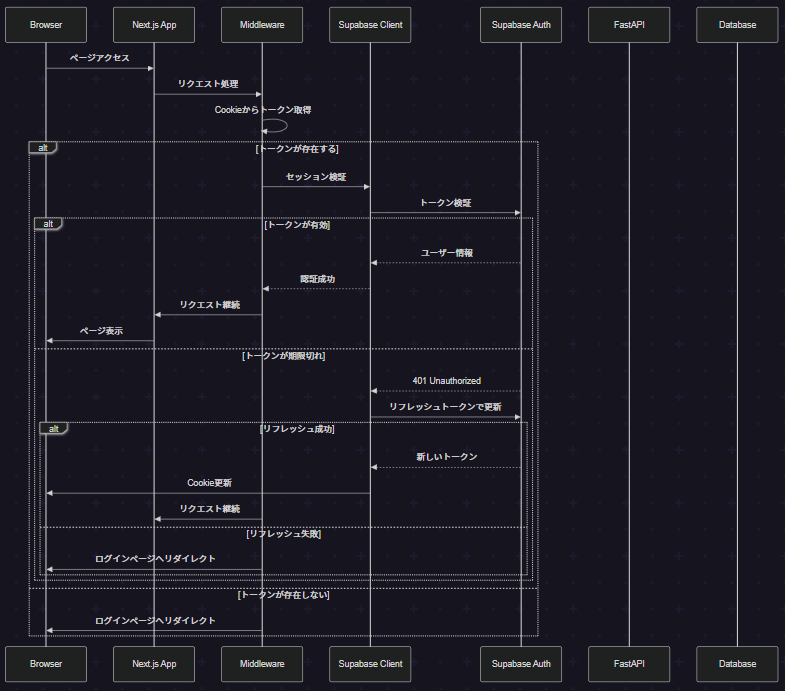
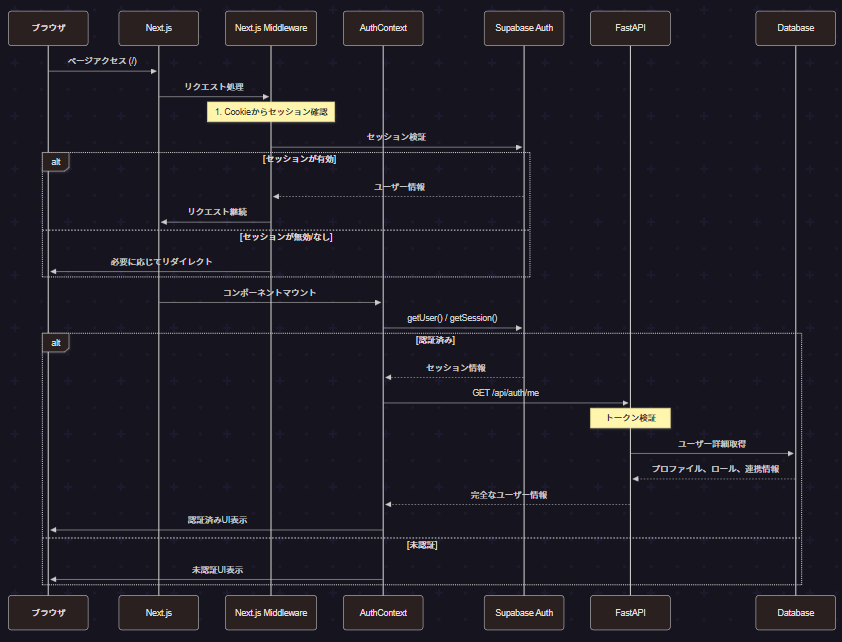
Doc: 認証設計のドキュメント追加

diff --git a/documents/機能設計/認証設計.md b/documents/機能設計/認証設計.md
@@ -3,7 +3,16 @@
 ## アーキテクチャ概要
 
 ```
-
+┌─────────────┐     ┌──────────────┐     ┌─────────────┐     ┌─────────────┐
+│   Next.js   │────▶│   FastAPI    │────▶│  Supabase   │     │   Stripe    │
+│  (Frontend) │     │  (Backend)   │     │    Auth     │     │   Webhook   │
+└─────────────┘     └──────────────┘     └─────────────┘     └─────────────┘
+       │                    │                     │                    │
+       ▼                    ▼                     ▼                    ▼
+┌─────────────┐     ┌──────────────┐     ┌─────────────┐     ┌─────────────┐
+│   Cookie    │     │     JWT      │     │ PostgreSQL  │     │   Stripe    │
+│   Session   │     │  Validation  │     │  Database   │     │     API     │
+└─────────────┘     └──────────────┘     └─────────────┘     └─────────────┘
 ```
 
 ## 1. セキュリティ要件
@@ -86,39 +95,38 @@ sequenceDiagram
 
 ```mermaid
 sequenceDiagram
-    participant Browser
-    participant Next.js App
-    participant Middleware
-    participant Supabase Client
-    participant Supabase Auth
-    participant FastAPI
-    participant Database
+    participant Browser as ブラウザ
+    participant NextJS as Next.js
+    participant Middleware as Next.js Middleware
+    participant AuthContext as AuthContext
+    participant Supabase as Supabase Auth
+    participant FastAPI as FastAPI
+    participant DB as Database
 
-    Browser->>Next.js App: ページアクセス
-    Next.js App->>Middleware: リクエスト処理
-    Middleware->>Middleware: Cookieからトークン取得
+    Browser->>NextJS: ページアクセス (/)
+    NextJS->>Middleware: リクエスト処理
     
-    alt トークンが存在する
-        Middleware->>Supabase Client: セッション検証
-        Supabase Client->>Supabase Auth: トークン検証
-        
-        alt トークンが有効
-            Supabase Auth-->>Supabase Client: ユーザー情報
-            Supabase Client-->>Middleware: 認証成功
-            Middleware->>Next.js App: リクエスト継続
-            Next.js App->>Browser: ページ表示
-        else トークンが期限切れ
-            Supabase Auth-->>Supabase Client: 401 Unauthorized
-            Supabase Client->>Supabase Auth: リフレッシュトークンで更新
-            alt リフレッシュ成功
-                Supabase Auth-->>Supabase Client: 新しいトークン
-                Supabase Client->>Browser: Cookie更新
-                Middleware->>Next.js App: リクエスト継続
-            else リフレッシュ失敗
-                Middleware->>Browser: ログインページへリダイレクト
-            end
-        end
-    else トークンが存在しない
-        Middleware->>Browser: ログインページへリダイレクト
+    Note over Middleware: 1. Cookieからセッション確認
+    Middleware->>Supabase: セッション検証
+    alt セッションが有効
+        Supabase-->>Middleware: ユーザー情報
+        Middleware->>NextJS: リクエスト継続
+    else セッションが無効/なし
+        Middleware->>Browser: 必要に応じてリダイレクト
+    end
+    
+    NextJS->>AuthContext: コンポーネントマウント
+    AuthContext->>Supabase: getUser() / getSession()
+    
+    alt 認証済み
+        Supabase-->>AuthContext: セッション情報
+        AuthContext->>FastAPI: GET /api/auth/me
+        Note over FastAPI: トークン検証
+        FastAPI->>DB: ユーザー詳細取得
+        DB-->>FastAPI: プロファイル、ロール、連携情報
+        FastAPI-->>AuthContext: 完全なユーザー情報
+        AuthContext->>Browser: 認証済みUI表示
+    else 未認証
+        AuthContext->>Browser: 未認証UI表示
     end
 ```
